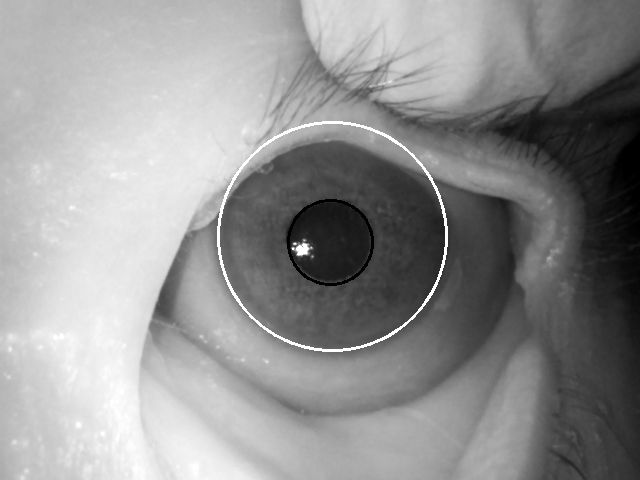
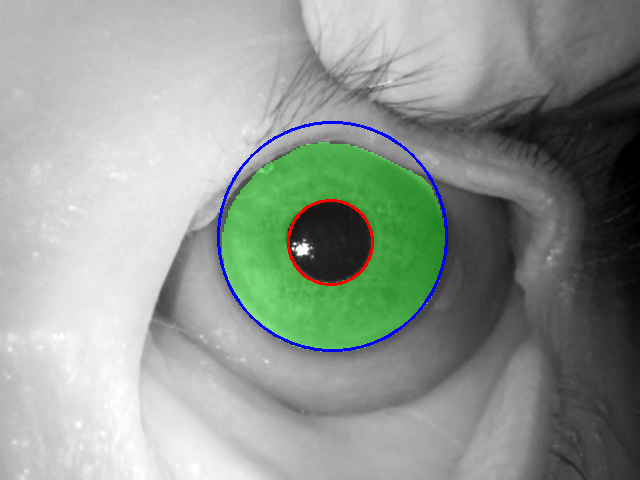
visualization added

Changed region(s): [[0.3125, 0.25, 0.7188, 0.75]]

diff --git a/src-python/howto.py b/src-python/howto.py
@@ -16,34 +16,32 @@ def main(cfg):
     mask_list = []
     polar_list = []
 
-    # Get images to process
-    
+    # Get the list of images to process
     for filename in glob.glob("../data/*.bmp"):
         print(filename)
         im = Image.open(filename)
         image_list.append(im)
         filename_list.append(os.path.basename(filename))
 
-    # Segment
+    # Segmentation, normalization and encoding
     for im,fn in zip(image_list,filename_list):
+        
+        # segmentation mask: 
         mask = irisRec.segment(im)
-
-        pupil_xyr, iris_xyr = irisRec.circApprox(mask)
-
-        im = np.array(im)
-        im = cv2.circle(im, (pupil_xyr[0],pupil_xyr[1]), pupil_xyr[2], (0, 255, 0), 2)
-        im = cv2.circle(im, (iris_xyr[0],iris_xyr[1]), iris_xyr[2], (255, 0, 0), 2)
-        cv2.imwrite("../dataProcessed/" + os.path.splitext(fn)[0] + "_seg_CCNet_vis.png",im)
-        print(pupil_xyr, iris_xyr)
-
         im_mask = Image.fromarray(mask)
         mask_list.append(im_mask)
+        
+        # circular approximation:
+        pupil_xyr, iris_xyr = irisRec.circApprox(mask)
+
+        # cartesian to polar transformation:
+
+        # DEBUG: save selected processing results 
         im_mask.save("../dataProcessed/" + os.path.splitext(fn)[0] + "_seg_CCNet_mask.png")
+        imVis = irisRec.segmentVis(im,mask,pupil_xyr,iris_xyr)
+        cv2.imwrite("../dataProcessed/" + os.path.splitext(fn)[0] + "_seg_CCNet_vis.png",imVis)
 
-    # Cartesian to polar
-
-
-    # Coding
+        # human-driven BSIF encoding:
 
 
 

diff --git a/src-python/modules/irisRecognition.py b/src-python/modules/irisRecognition.py
@@ -99,6 +99,14 @@ class irisRecognition(object):
         return pred
 
 
+    def segmentVis(self,im,mask,pupil_xyr,iris_xyr):
+
+        imVis = np.stack((np.array(im),)*3, axis=-1)
+        imVis[:,:,1] = np.clip(imVis[:,:,1] + 96*mask,0,255)
+        imVis = cv2.circle(imVis, (pupil_xyr[0],pupil_xyr[1]), pupil_xyr[2], (0, 0, 255), 2)
+        imVis = cv2.circle(imVis, (iris_xyr[0],iris_xyr[1]), iris_xyr[2], (255, 0, 0), 2)
+
+        return imVis
 
     def circApprox(self,mask):
 
